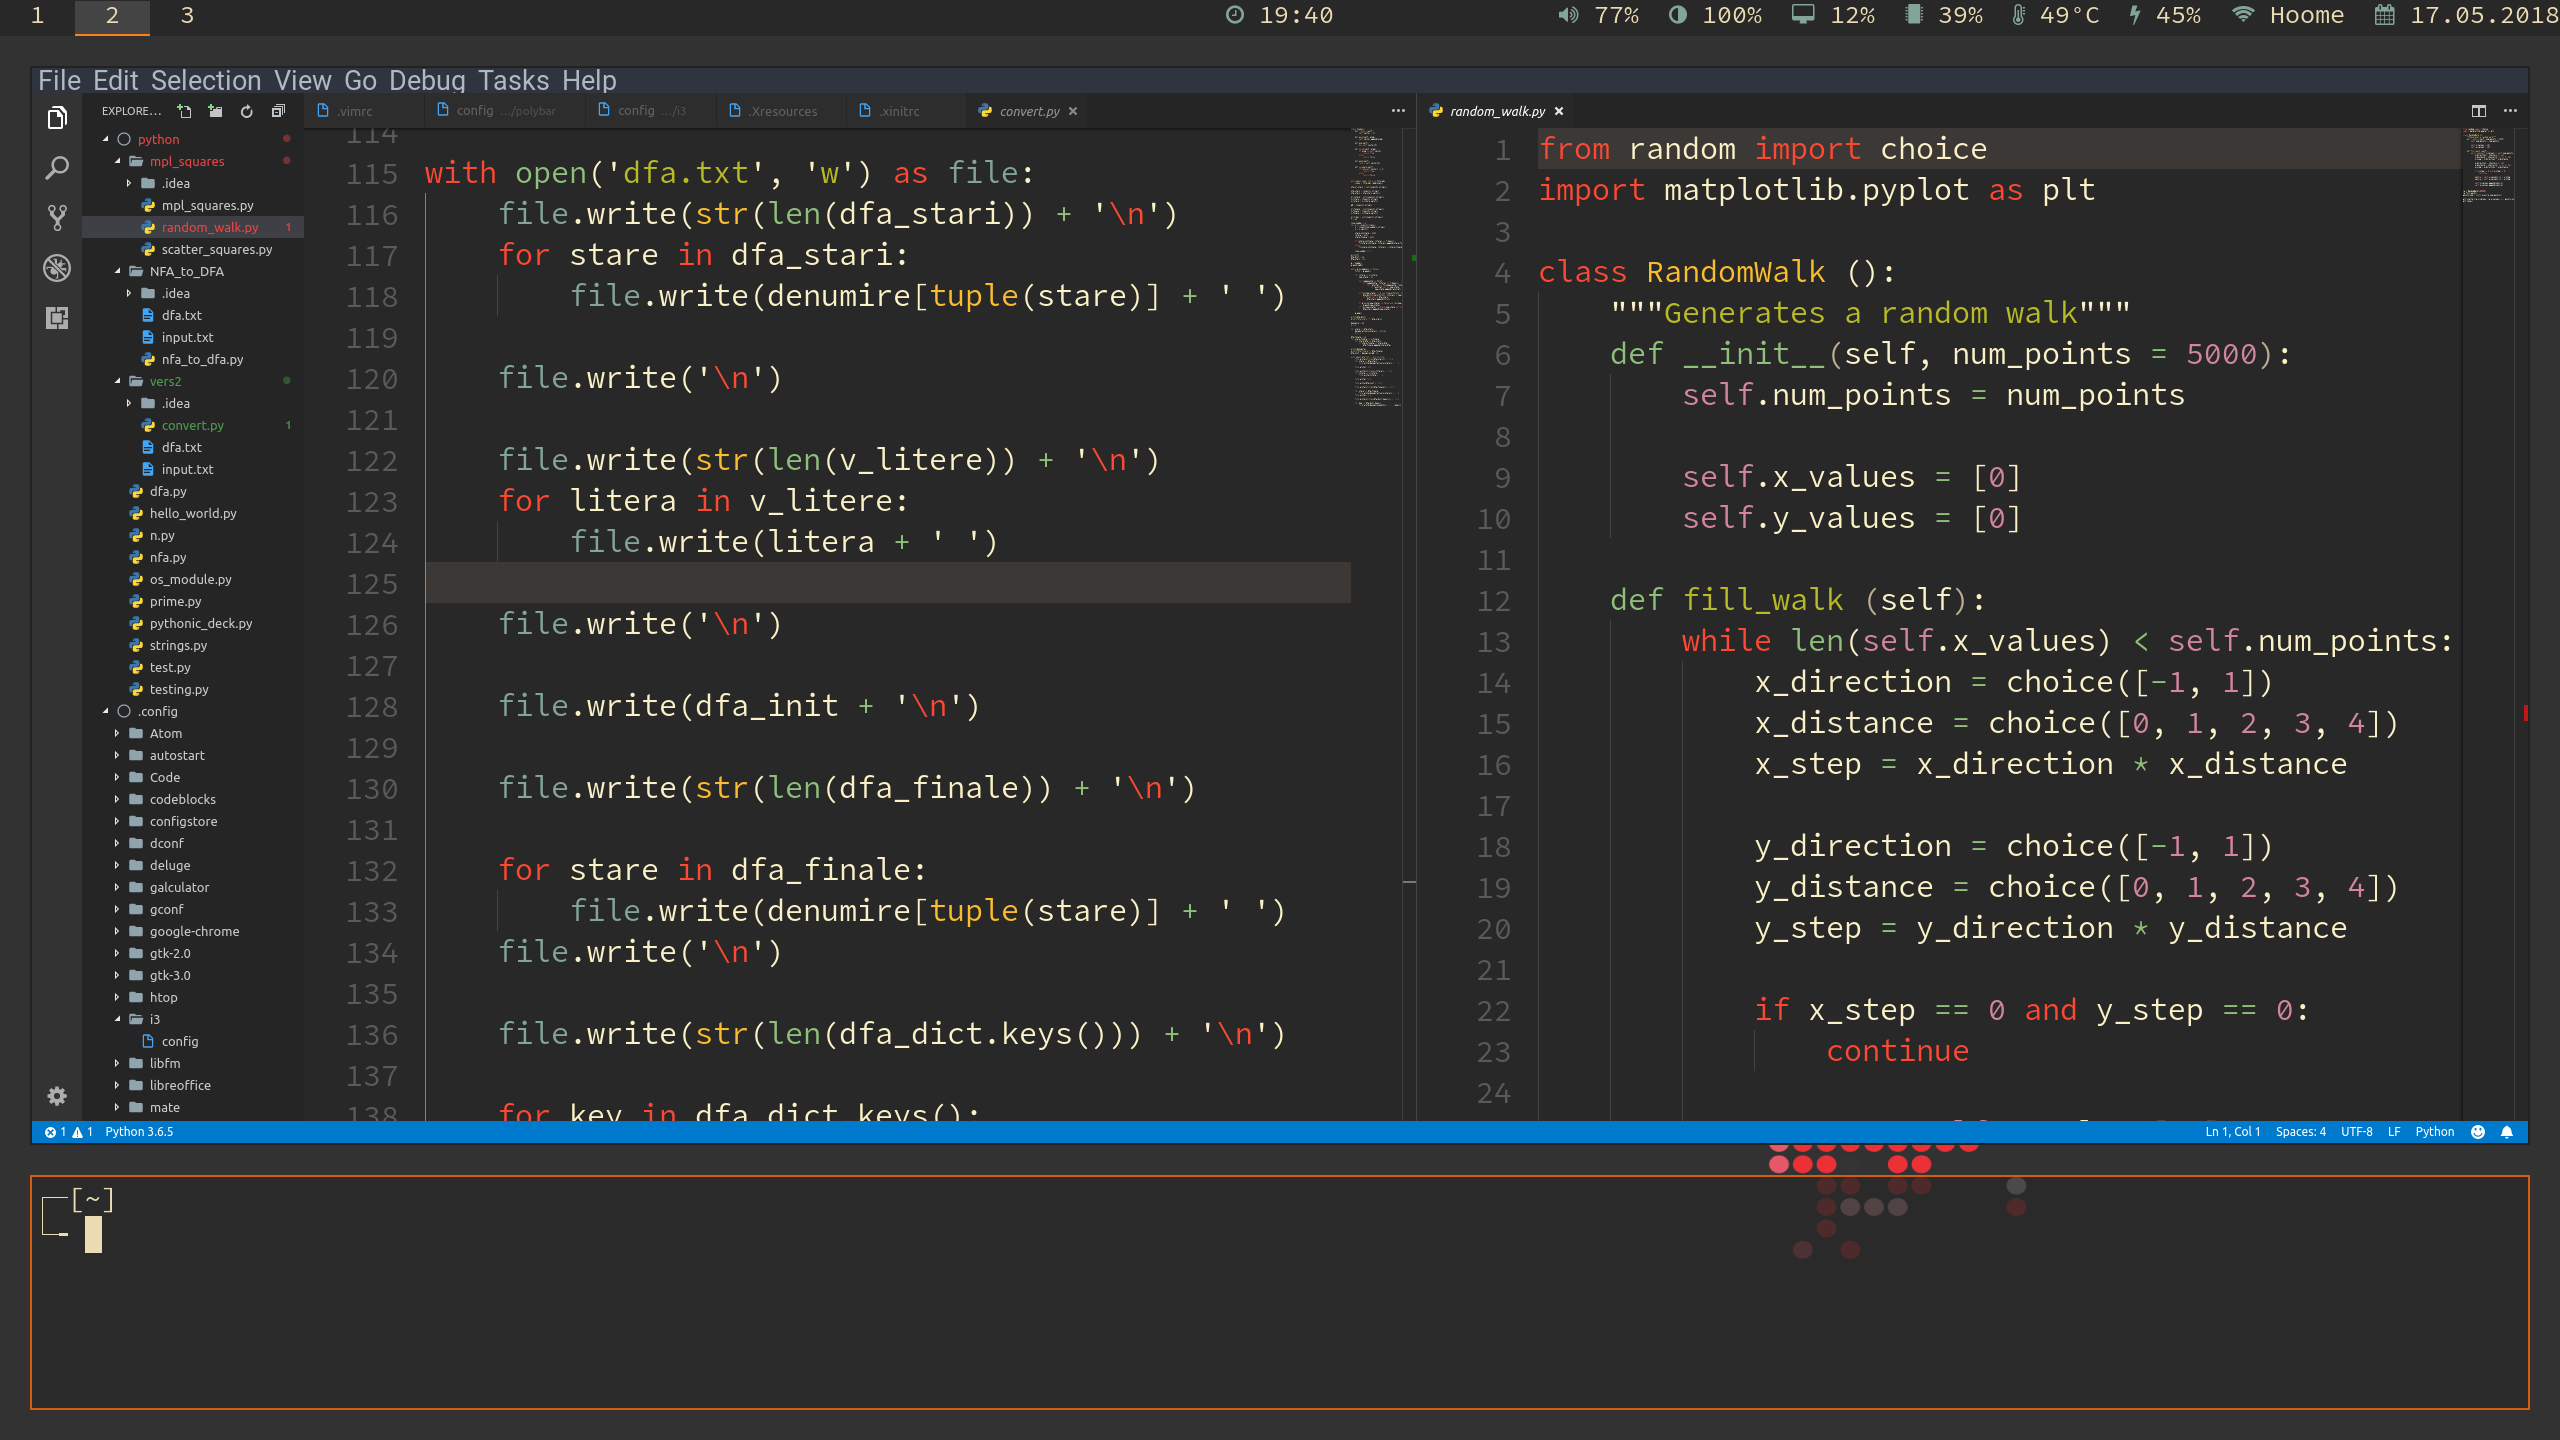
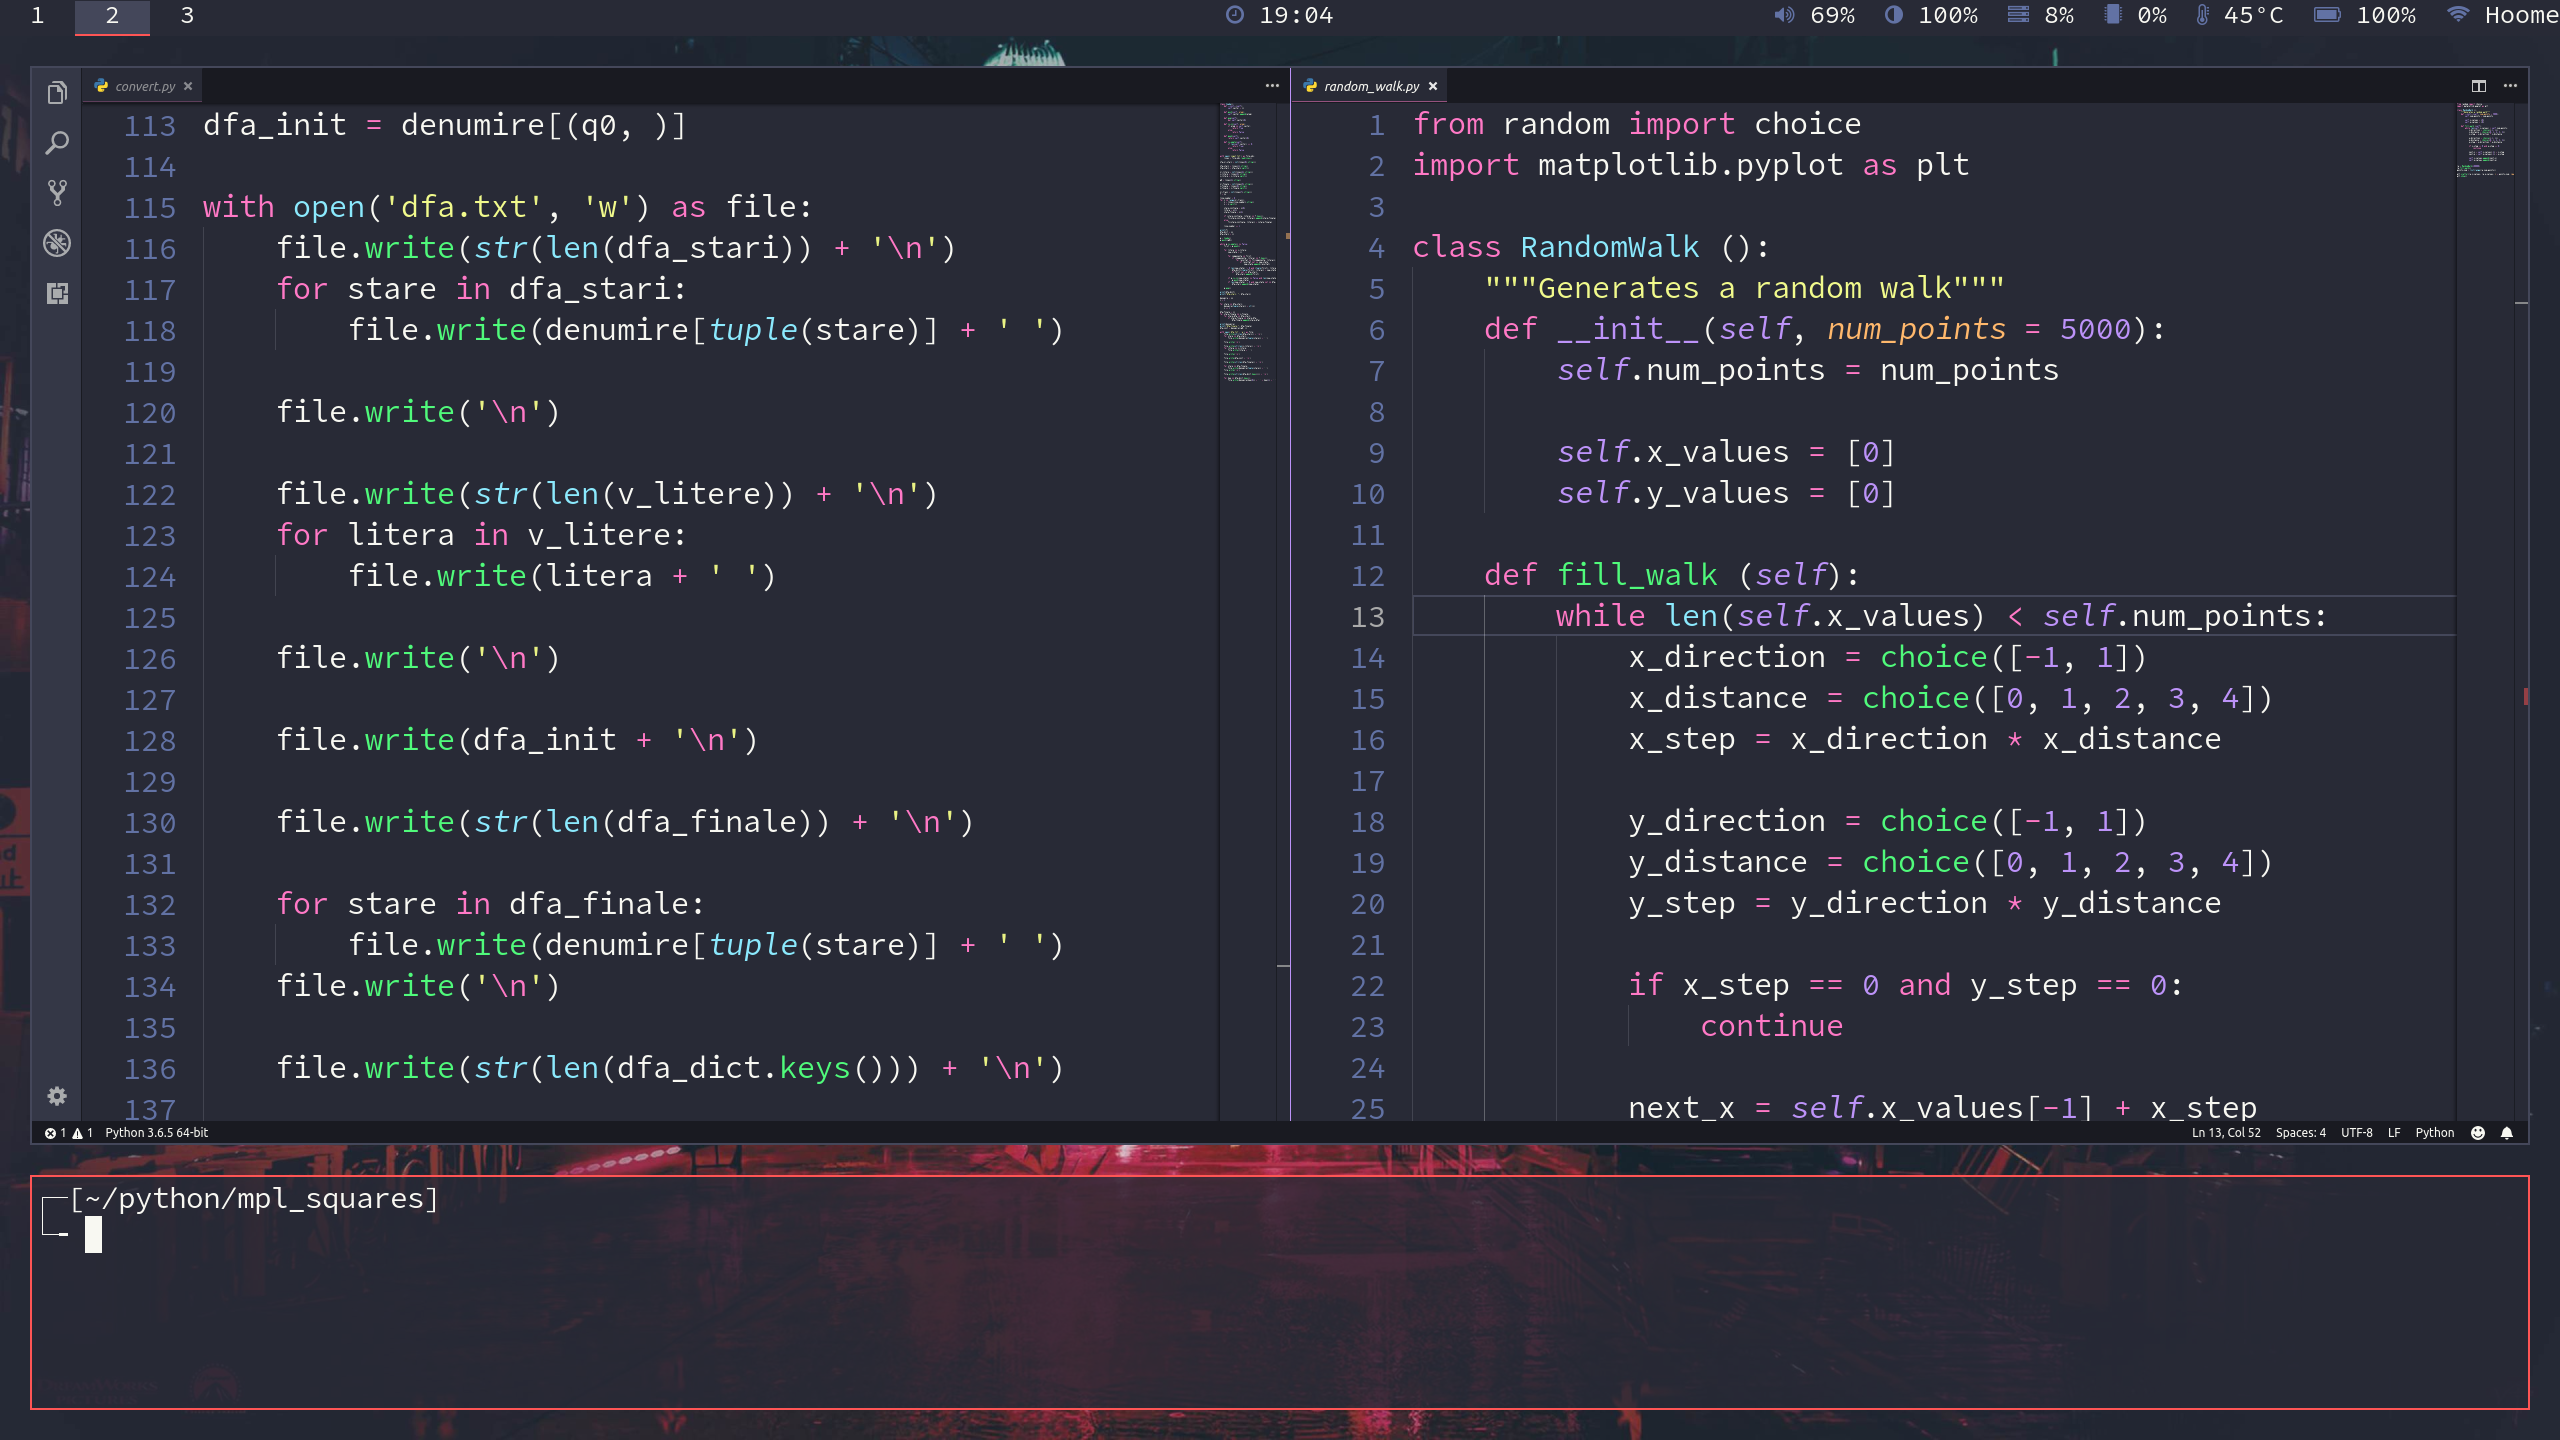
Changed colorscheme to dracula

diff --git a/README.md b/README.md
@@ -3,6 +3,8 @@
 ## Current Setup
 ![alt text](https://github.com/BogdanIonesq/dotfiles/blob/master/busy.png)
 
+![alt text](https://github.com/BogdanIonesq/dotfiles/blob/master/urxvt+rofi.png)
+
 ## Installing Arch on a new machine
 **DISCLAIMER: These guidelines were written specifically for my machine and _might_ not work on yours. Always follow [the official Installation guide](https://wiki.archlinux.org/index.php/Installation_guide).**
 
